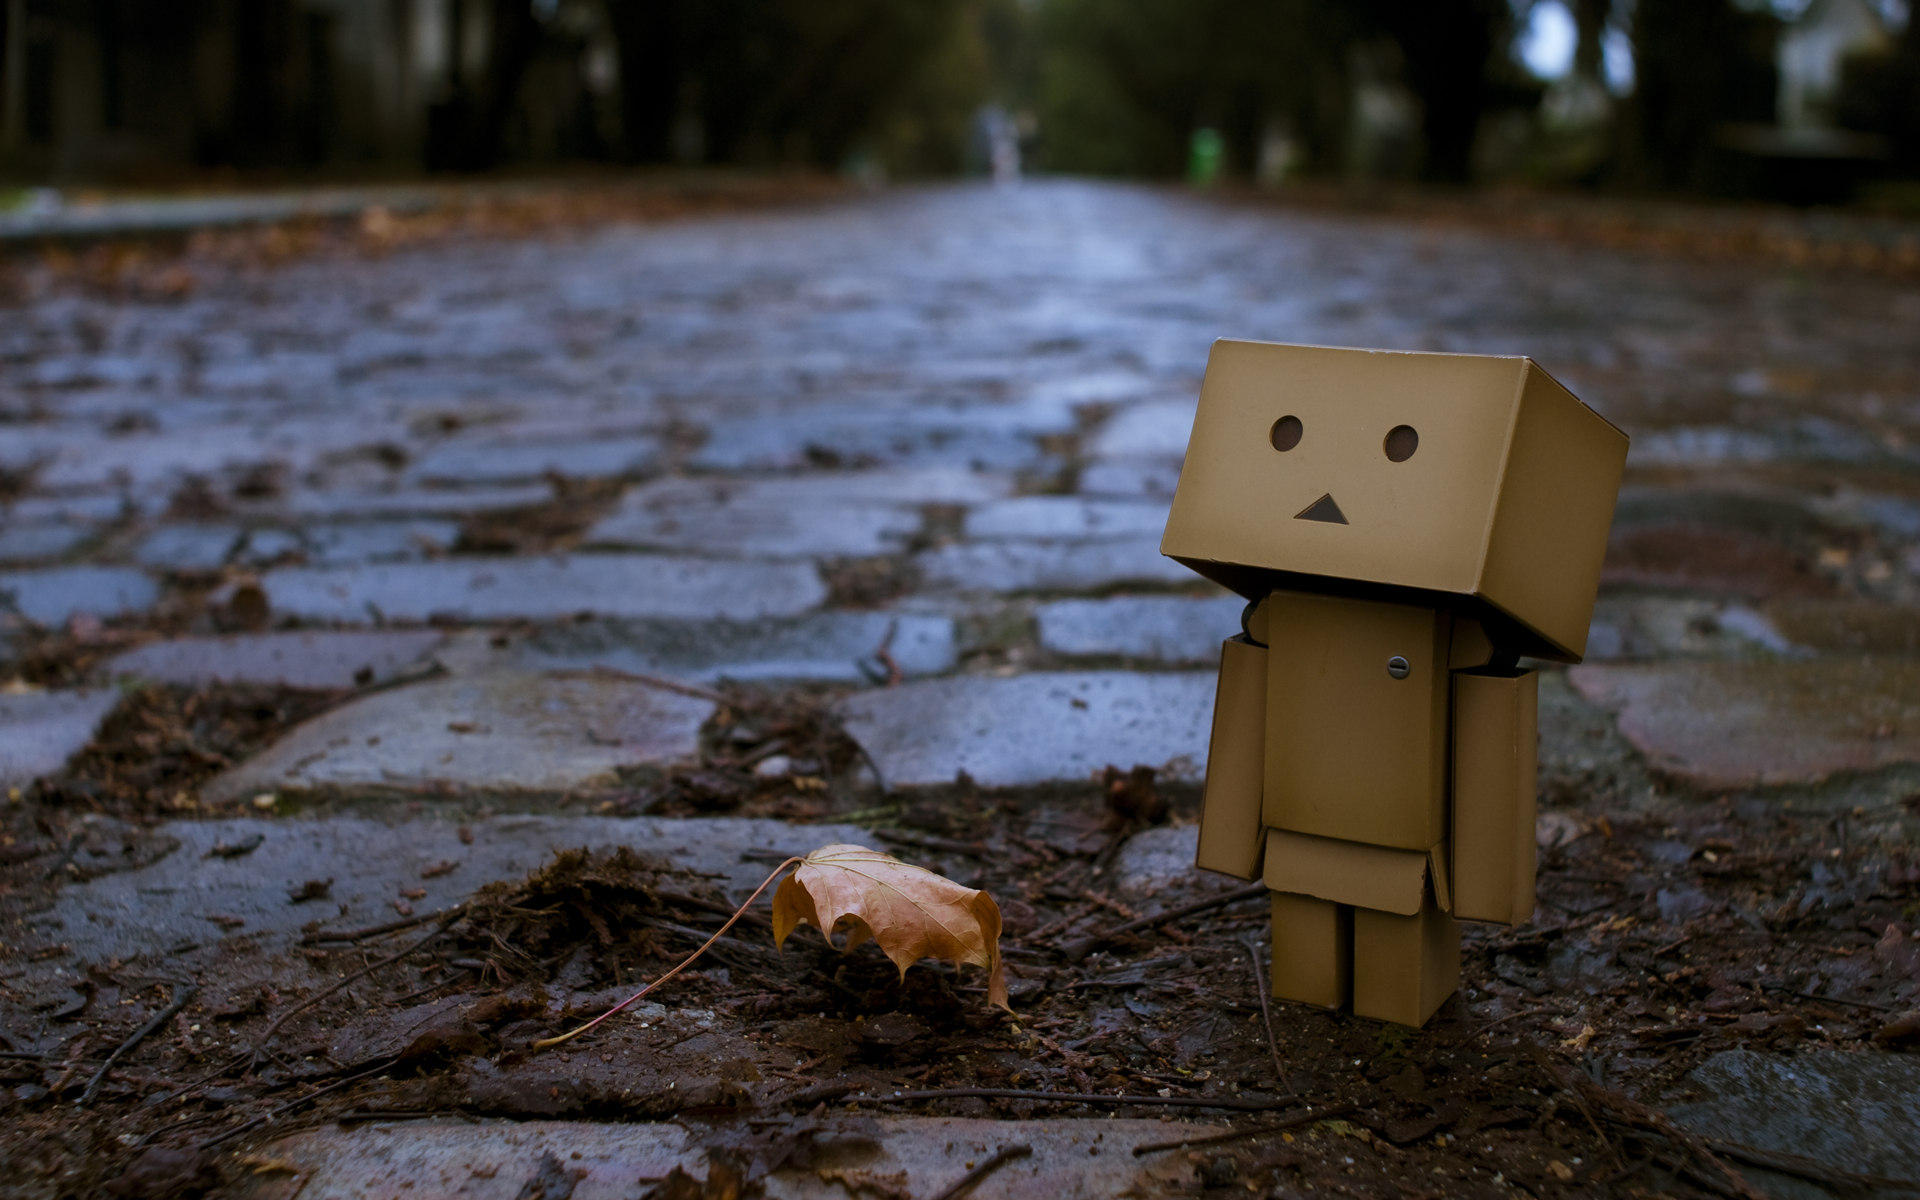
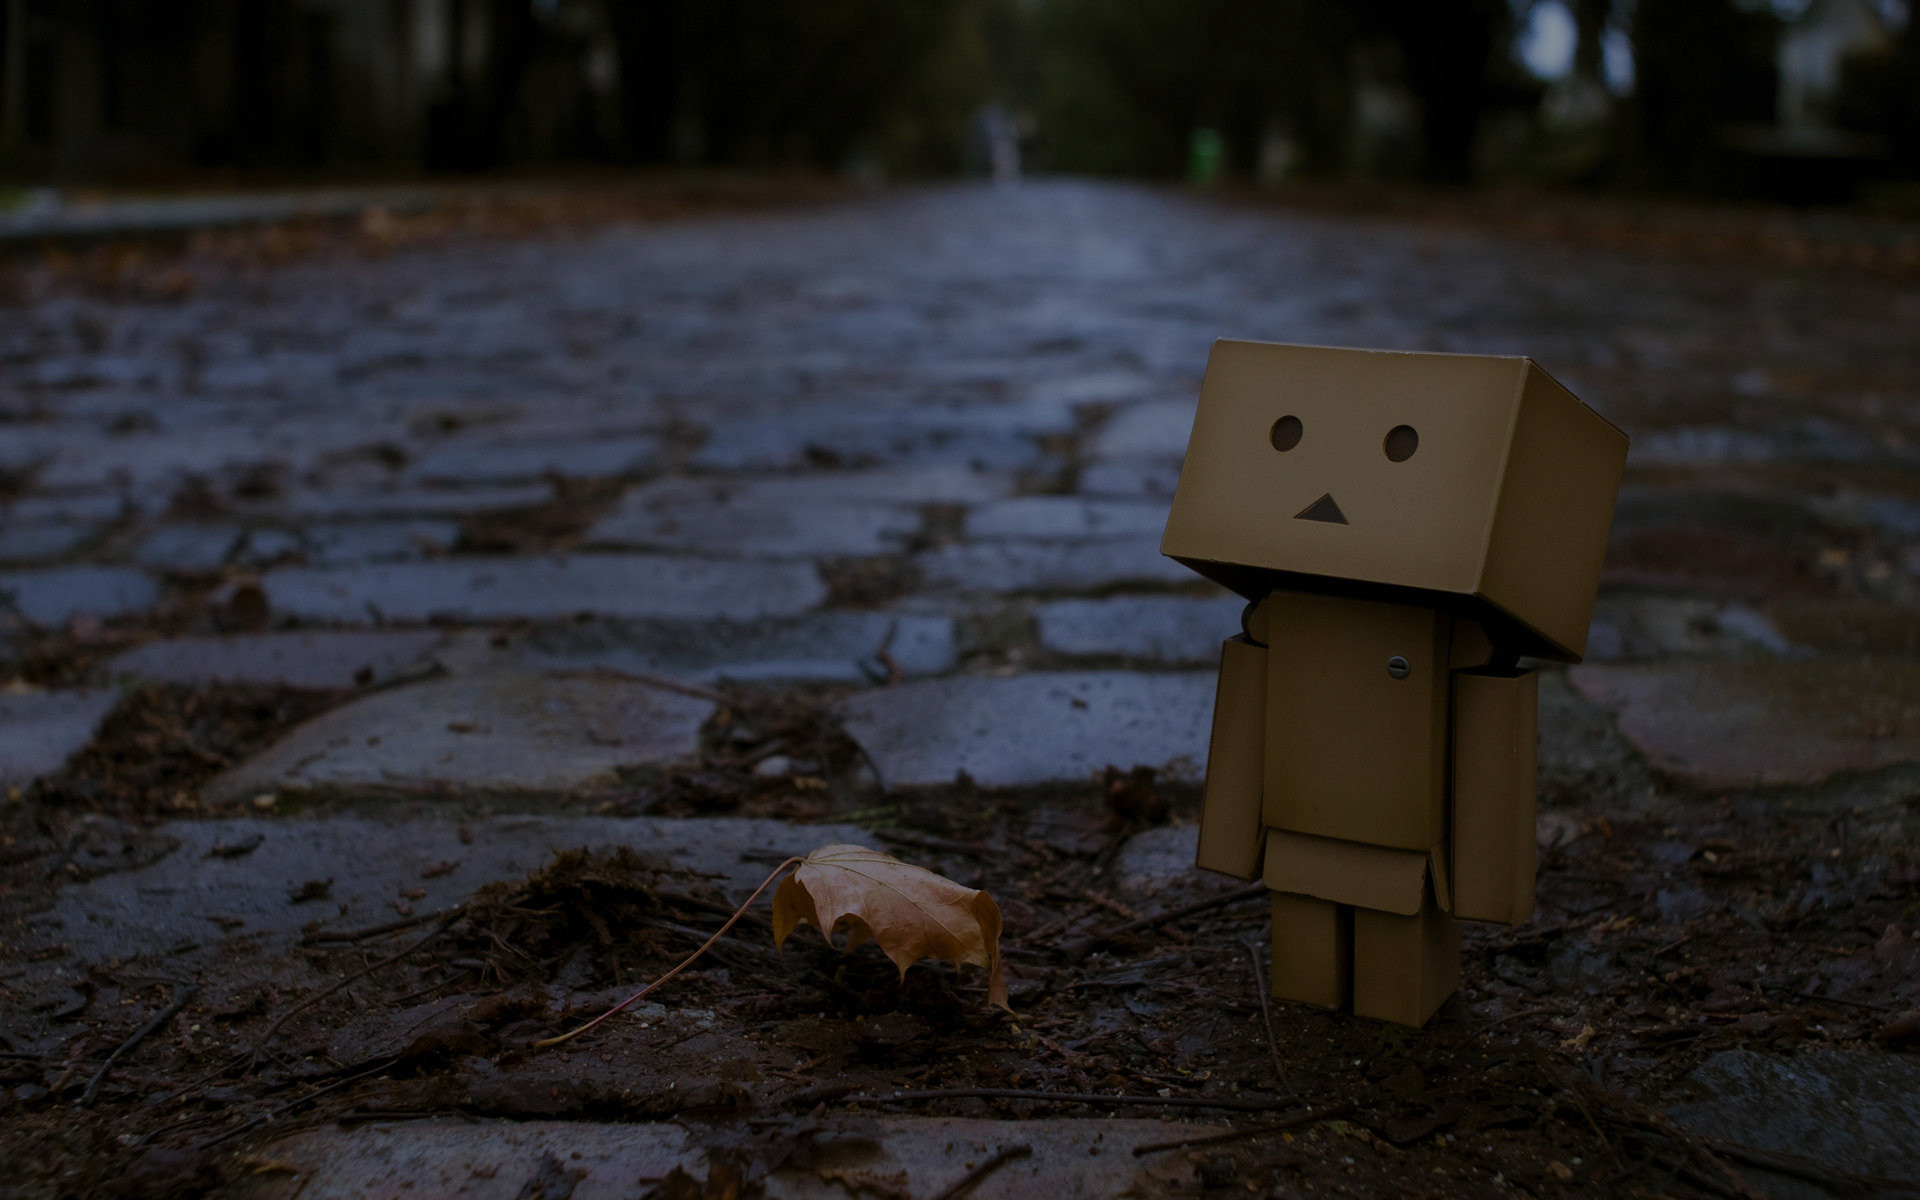
fixing background

diff --git a/index.html b/index.html
@@ -70,9 +70,8 @@
   <div class="wrapper" style="width:100%;">
     <div class="parallax" style="height:100vh; width:auto">
       <div class="parallax-image" style="height:100vh">
-        <img style="height:100vh; width:auto;" src="assets/img/bg.jpg">
+        <img style="height:100vh; width:130%; max-width:100%" src="assets/img/bg.jpg">
       </div>
-      <div style="background-color: black; opacity: 0.4; z-index: 5; top: 0px; bottom: 100%; position: static; height: 100vh; width: 100vw;"></div>
       <div style="position:absolute; width:100%; right:auto; left:auto; z-index: 10; top:25vh" class="club">
         <div style="text-shadow: 0 0 10px rgba(0, 0, 0, 0.27); font-size: 4.2em; color :white; text-align:center;"><b>Expand your Technological <br>Knowledge</b></div>
         <br>
